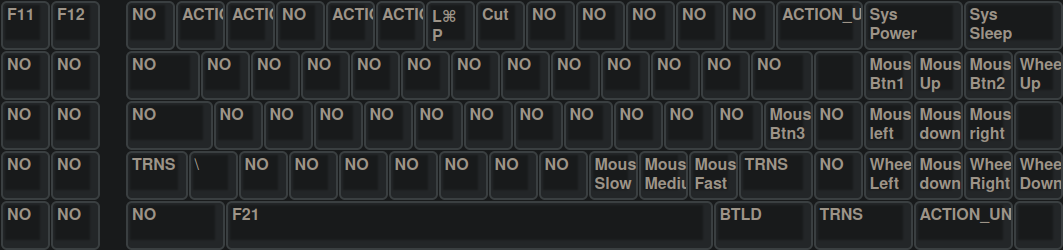
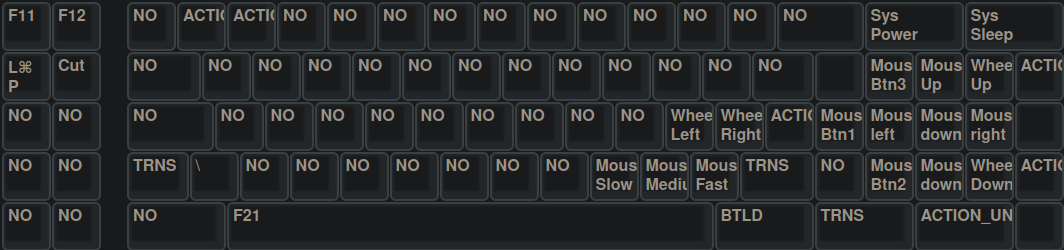
minor assignment changes

diff --git a/unimap_plain.c b/unimap_plain.c
@@ -2,7 +2,7 @@
  * path:   /home/klassiker/.local/share/repos/zenith-xt-usb/unimap_plain.c
  * author: klassiker [mrdotx]
  * github: https://github.com/mrdotx/zenith-usb
- * date:   2021-03-04T13:49:45+0100
+ * date:   2021-03-05T12:05:52+0100
  */
 
 #include "unimap_trans.h"
@@ -44,11 +44,11 @@ const action_t actionmaps[][UNIMAP_ROWS][UNIMAP_COLS] PROGMEM = {
     /* [2] functions, macros and mouse with tap key INS(LTK1) or 0(LTK2) */
     UNIMAP(
               NO,  NO,  NO,  NO,  NO,  NO,  NO,  NO,  NO,  NO,  NO,  NO,
-    NO,       F11, F12, NO,  NO,  NO,  NO,  NO,  NO,  NO,  NO,  NO,  NO,            NO,  SLEP,NO,           NO,  NO,  NO,
-    BTN3,M1,  M2,  NO,BRTD,BRTI,  MON, CUT, NO,  NO,  NO,  NO,  NO,  NO,  M3,       NO,  NO,  NO,      PWR, NO,  NO,  WH_U,
-    NO,  NO,  NO,  NO,  NO,  NO,  NO,  NO,  NO,  NO,  NO,  NO,  NO,       BSLS,     NO,  NO,  NO,      BTN1,MS_U,BTN2,WH_D,
-    BTLD,NO,  NO,  NO,  NO,  NO,  NO,  NO,  NO,  NO,  NO,  NO,       NO,  NO,                          MS_L,MS_D,MS_R,NO,
-    TRNS,NO,  NO,  NO,  NO,  NO,  NO,  NO,  NO,  ACL0,ACL1,ACL2,     NO,  TRNS,          NO,           WH_L,MS_D,WH_R,NO,
+    NO,       F11, F12, MON, CUT, NO,  NO,  NO,  NO,  NO,  NO,  NO,  NO,            NO,  SLEP,NO,           NO,  NO,  NO,
+    M3,  M1,  M2,  NO,  NO,  NO,  NO,  NO,  NO,  NO,  NO,  NO,  NO,  NO,  NO,       NO,  NO,  NO,      PWR, NO,  NO,  BRTD,
+    NO,  NO,  NO,  NO,  NO,  NO,  NO,  NO,  NO,  NO,  NO,  NO,  NO,       BSLS,     NO,  NO,  NO,      BTN3,MS_U,WH_U,BRTI,
+    BTLD,NO,  NO,  NO,  NO,  NO,  NO,  NO,  NO,  NO,  WH_L,WH_R,     NO,  BTN1,                        MS_L,MS_D,MS_R,NO,
+    TRNS,NO,  NO,  NO,  NO,  NO,  NO,  NO,  NO,  ACL0,ACL1,ACL2,     NO,  TRNS,          NO,           BTN2,MS_D,WH_D,NO,
     NO,  NO,  NO,  NO,            F21,           NO,  NO  ,NO,  NO,  NO,  NO,       NO,  NO,  NO,           TRNS,M0,  NO
     ),
 };
